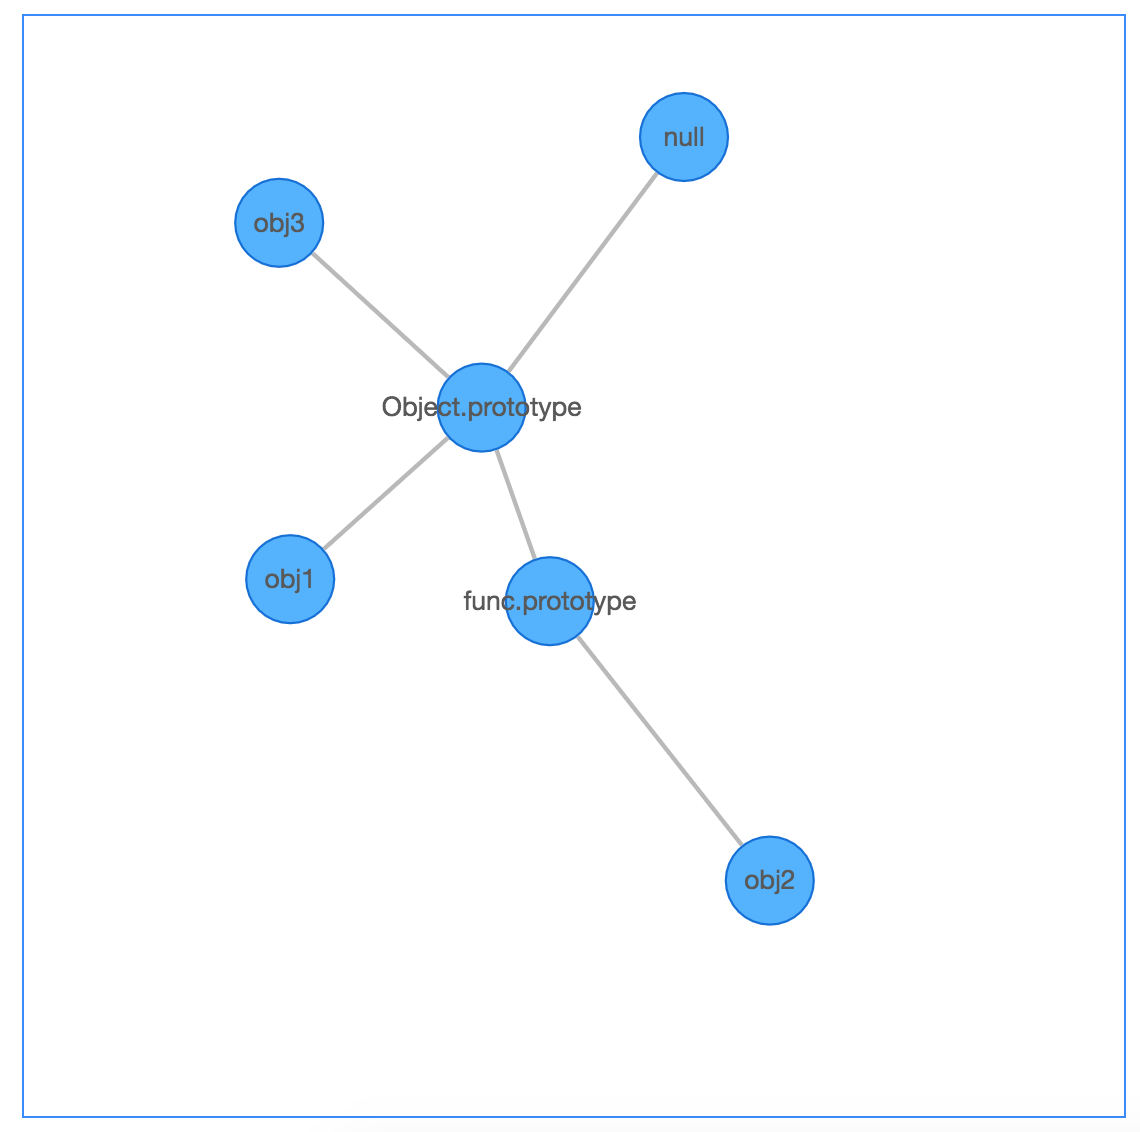
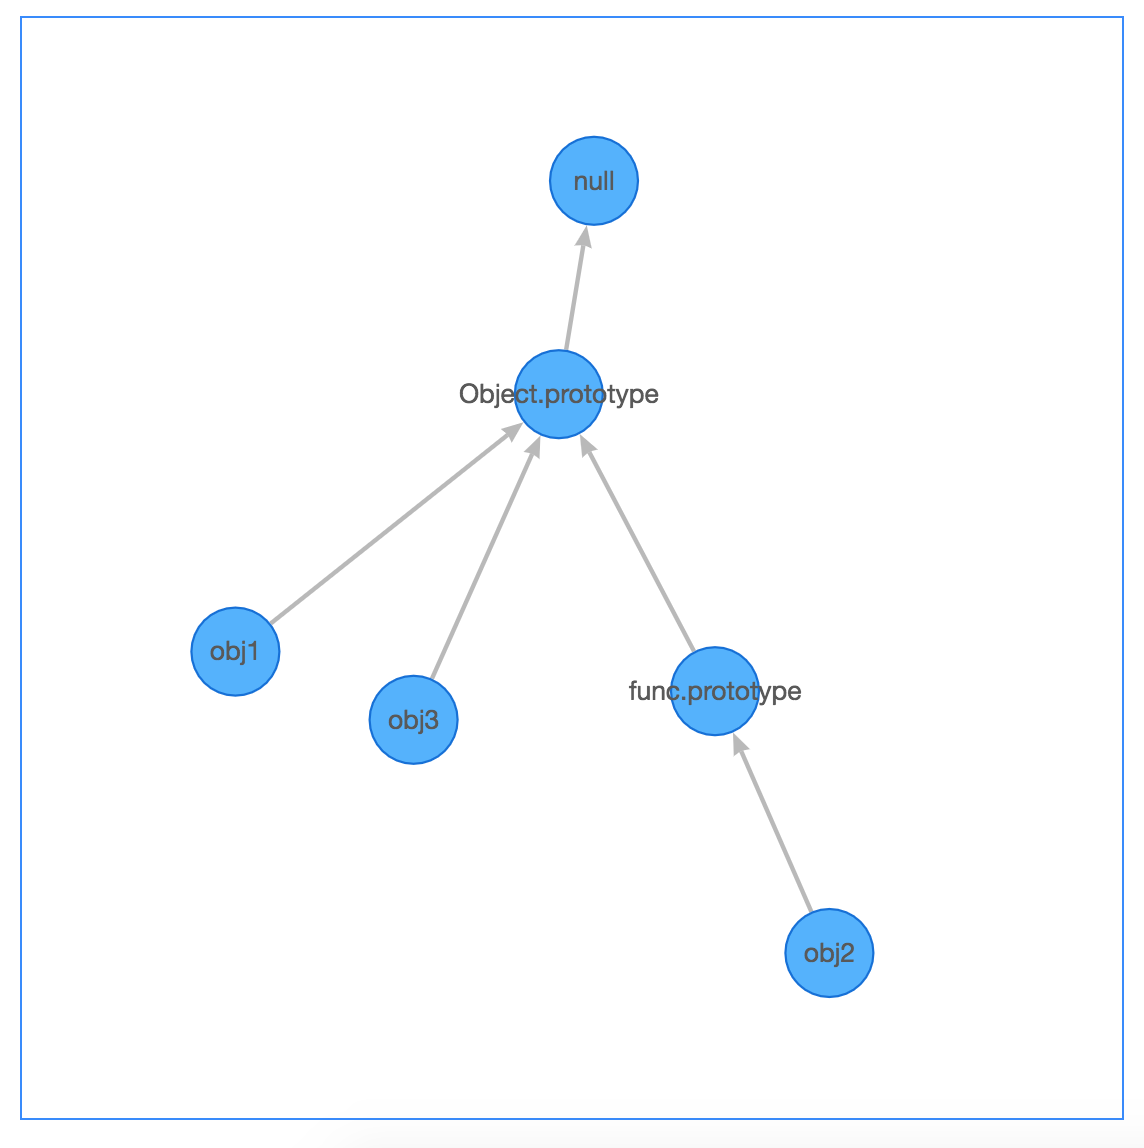
feat: update README.md and add arrow to edge.

diff --git a/lib/zrototype.js b/lib/zrototype.js
@@ -143,7 +143,8 @@ var Zrototype = function () {
         style: function style() {
           return {
             stroke: '#b3b3b3',
-            lineWidth: 2
+            lineWidth: 2,
+            endArrow: true
           };
         }
       });

diff --git a/src/zrototype.js b/src/zrototype.js
@@ -103,7 +103,8 @@ class Zrototype {
       style() {
         return {
           stroke: '#b3b3b3',
-          lineWidth: 2
+          lineWidth: 2,
+          endArrow: true
         }
       }
     });   

diff --git a/README.md b/README.md
@@ -12,7 +12,7 @@ zrototype create graph ↔ of prototype of given objects.
 
 ### Demo
 
-⚠ If code compression is turn on, the name of function is the compressed name.
+⚠ If code compression is turn on, the name of function is the compressed name.
 
 ```javascript
 import Zrototype from 'zrototype';
